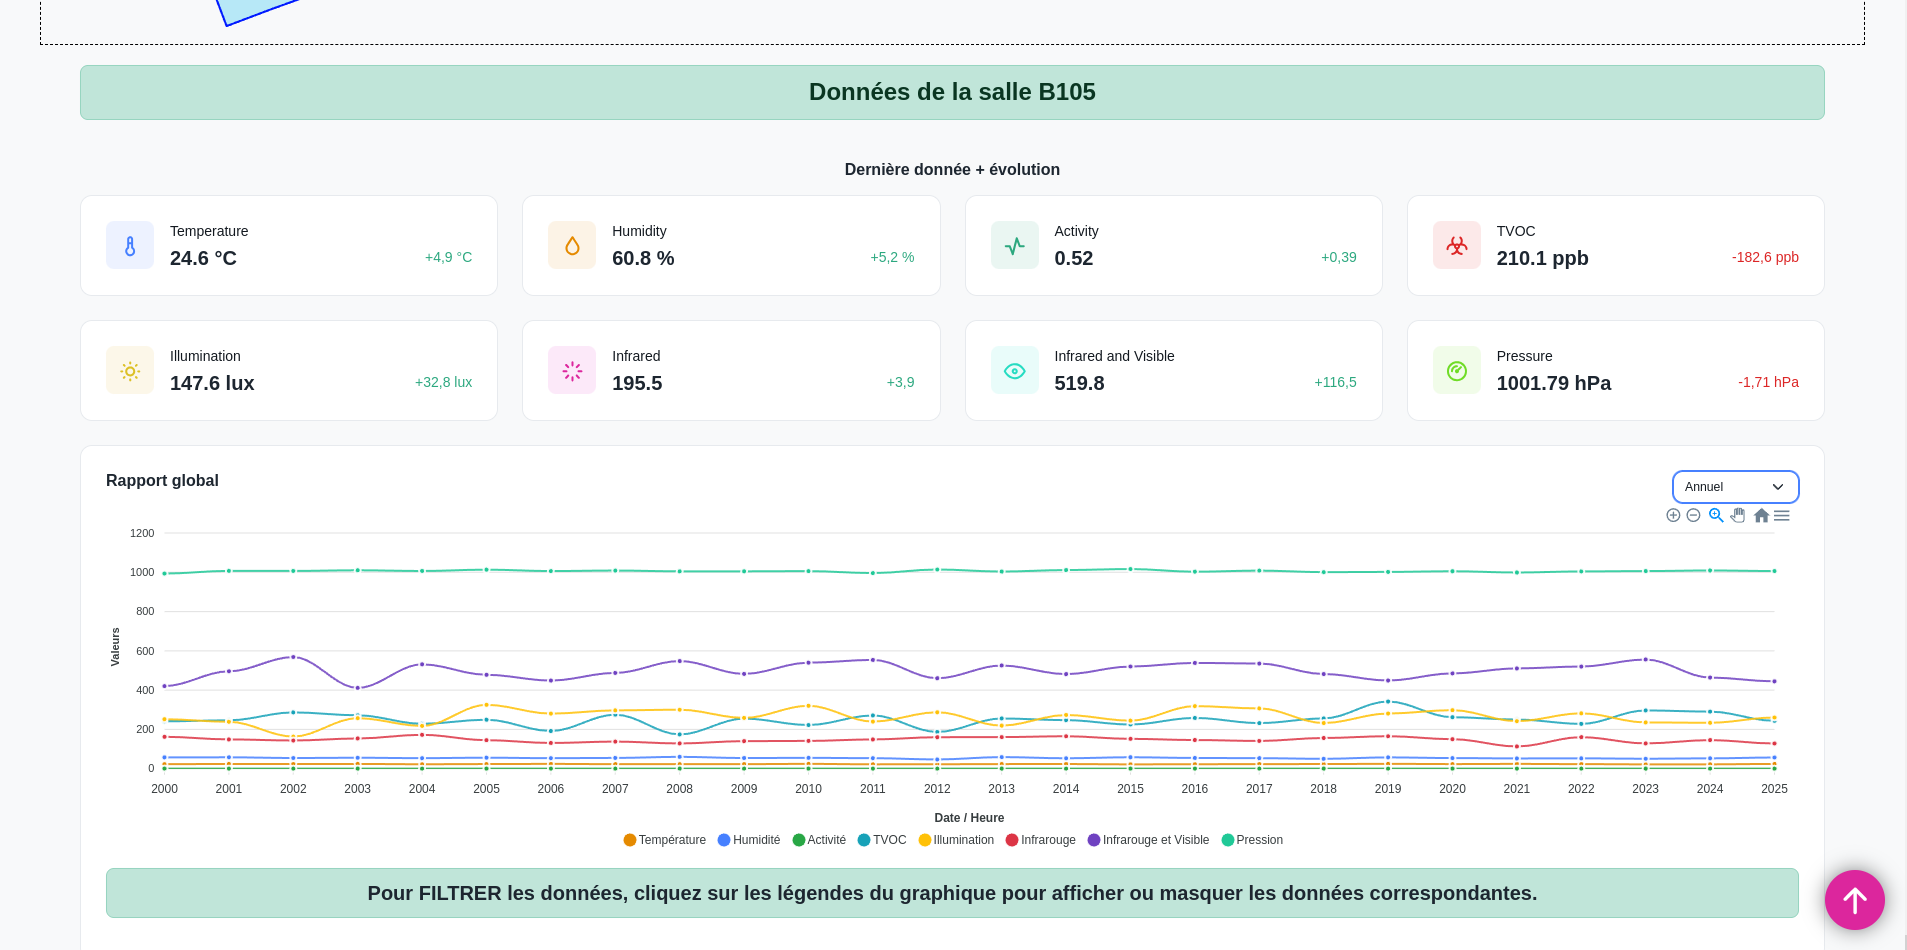
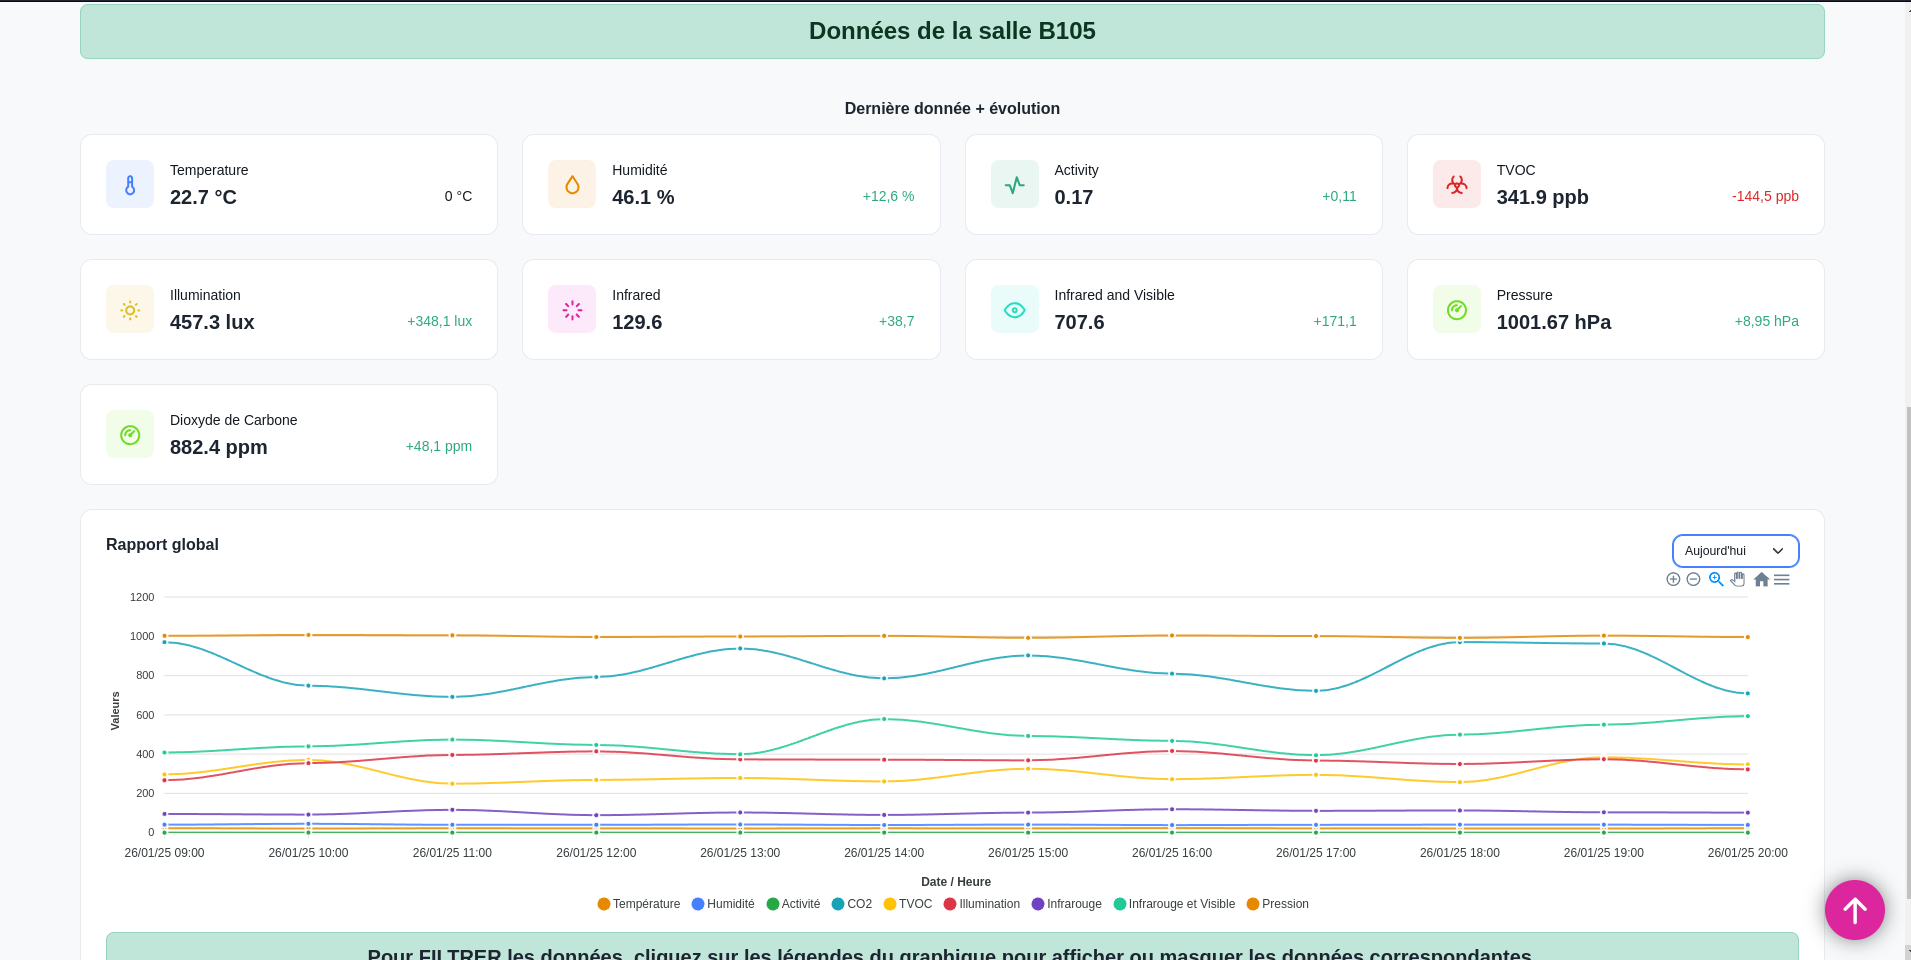
🐛 correction bug + modification en fonction des retours de RB

diff --git a/Docker/WEB/assets/js/widgets/graphic.js b/Docker/WEB/assets/js/widgets/graphic.js
@@ -6,6 +6,7 @@ document.addEventListener('DOMContentLoaded', function () {
         temperature: temperatureData,
         humidity: humidityData,
         activity: activityData,
+        dioxidecarbon: dioxidecarbonData,
         tvoc: tvocData,
         illumination: illuminationData,
         infrared: infraredData,
@@ -39,6 +40,7 @@ document.addEventListener('DOMContentLoaded', function () {
             temperature: {},
             humidity: {},
             activity: {},
+            dioxidecarbon: {},
             tvoc: {},
             illumination: {},
             infrared: {},
@@ -76,6 +78,7 @@ document.addEventListener('DOMContentLoaded', function () {
                 groupedData.temperature[key] = [];
                 groupedData.humidity[key] = [];
                 groupedData.activity[key] = [];
+                groupedData.dioxidecarbon[key] = [];
                 groupedData.tvoc[key] = [];
                 groupedData.illumination[key] = [];
                 groupedData.infrared[key] = [];
@@ -87,6 +90,7 @@ document.addEventListener('DOMContentLoaded', function () {
             groupedData.temperature[key].push(filteredData.temperature[idx]);
             groupedData.humidity[key].push(filteredData.humidity[idx]);
             groupedData.activity[key].push(filteredData.activity[idx]);
+            groupedData.dioxidecarbon[key].push(filteredData.dioxidecarbon[idx]);
             groupedData.tvoc[key].push(filteredData.tvoc[idx]);
             groupedData.illumination[key].push(filteredData.illumination[idx]);
             groupedData.infrared[key].push(filteredData.infrared[idx]);
@@ -104,6 +108,7 @@ document.addEventListener('DOMContentLoaded', function () {
             temperature: [],
             humidity: [],
             activity: [],
+            dioxidecarbon: [],
             tvoc: [],
             illumination: [],
             infrared: [],
@@ -135,6 +140,7 @@ document.addEventListener('DOMContentLoaded', function () {
             averagedData.temperature.push(calculateAverage(groupedData.temperature[key]));
             averagedData.humidity.push(calculateAverage(groupedData.humidity[key]));
             averagedData.activity.push(calculateAverage(groupedData.activity[key]));
+            averagedData.dioxidecarbon.push(calculateAverage(groupedData.dioxidecarbon[key]));
             averagedData.tvoc.push(calculateAverage(groupedData.tvoc[key]));
             averagedData.illumination.push(calculateAverage(groupedData.illumination[key]));
             averagedData.infrared.push(calculateAverage(groupedData.infrared[key]));
@@ -190,6 +196,7 @@ document.addEventListener('DOMContentLoaded', function () {
             temperature: indices.map((i) => allData.temperature[i]),
             humidity: indices.map((i) => allData.humidity[i]),
             activity: indices.map((i) => allData.activity[i]),
+            dioxidecarbon: indices.map((i) => allData.dioxidecarbon[i]),
             tvoc: indices.map((i) => allData.tvoc[i]),
             illumination: indices.map((i) => allData.illumination[i]),
             infrared: indices.map((i) => allData.infrared[i]),
@@ -264,6 +271,7 @@ document.addEventListener('DOMContentLoaded', function () {
                 { name: 'Température', data: filteredData.temperature },
                 { name: 'Humidité', data: filteredData.humidity },
                 { name: 'Activité', data: filteredData.activity },
+                { name: 'CO2', data: filteredData.dioxidecarbon },
                 { name: 'TVOC', data: filteredData.tvoc },
                 { name: 'Illumination', data: filteredData.illumination },
                 { name: 'Infrarouge', data: filteredData.infrared },

diff --git a/Docker/BD/gen_sql.py b/Docker/BD/gen_sql.py
@@ -7,33 +7,47 @@ import os
 
 def generate_inserts(output_file):
     # Définition de l'intervalle de dates
-    start_date = datetime.datetime(2000, 1, 1)
-    end_date = datetime.datetime(2025, 6, 1) 
+    end_date = datetime.datetime.now()
+    start_date = end_date - datetime.timedelta(days=6 * 30)  # Approximation des 6 derniers mois
     
     current_date = start_date
     inserts = []
 
     while current_date < end_date:
-        # Génération des valeurs aléatoires
-        temperature = round(18.0 + random.random() * 10.0, 1)
-        humidity = round(40.0 + random.random() * 30.0, 1)
-        activity = round(random.random() * 1.0, 2)
-        tvoc = round(50.0 + random.random() * 400.0, 1)
-        illumination = round(10.0 + random.random() * 500.0, 1)
-        infrared = round(50.0 + random.random() * 200.0, 1)
-        infrared_and_visible = round(300.0 + random.random() * 400.0, 1)
-        presure = round(980.0 + random.random() * 50.0, 2)
-        deviceName = "Device_A"
-        room = "B105"
-        
-        # Formatage de la date pour SQL
-        date_heure_str = current_date.strftime("%Y-%m-%d %H:%M:%S")
-        
-        # Construction de la requête INSERT
-        insert_query = f"""INSERT INTO Mesures (
+        # Vérifier si on est dans la dernière semaine
+        if current_date >= end_date - datetime.timedelta(days=7):
+            interval = datetime.timedelta(minutes=10)  # Intervalle de 10 minutes
+        else:
+            interval = datetime.timedelta(hours=5)  # Intervalle de 5 heures
+
+        # Vérifier les jours et horaires
+        if (
+            current_date.weekday() not in [4, 5]  # Pas de vendredi (4) ni samedi (5)
+            and (current_date.weekday() != 3 or current_date.hour < 12)  # Pas le jeudi après-midi
+            and 8 <= current_date.hour < 20  # Horaires entre 8h et 20h
+        ):
+            # Génération des valeurs réalistes
+            temperature = round(random.uniform(20.0, 24.0), 1)  # Température typique en intérieur
+            humidity = round(random.uniform(30.0, 50.0), 1)  # Humidité typique en salle
+            activity = round(random.uniform(0.0, 0.9), 2) if random.random() > 0.1 else None  # Activité faible
+            dioxideCarbon = round(random.uniform(400, 1200), 1)  # CO2, plus élevé en classe
+            tvoc = round(random.uniform(100, 500), 1)  # Composés organiques volatils
+            illumination = round(random.uniform(100, 700), 1)  # Éclairage de la salle
+            infrared = round(random.uniform(50, 150), 1)  # Infrarouge (occupants)
+            infrared_and_visible = round(random.uniform(200, 800), 1)  # Infrarouge et visible
+            presure = round(random.uniform(980.0, 1020.0), 2)  # Pression atmosphérique normale
+            deviceName = "AM107-17"
+            room = "B105"
+            
+            # Formatage de la date pour SQL
+            date_heure_str = current_date.strftime("%Y-%m-%d %H:%M:%S")
+            
+            # Construction de la requête INSERT
+            insert_query = f"""INSERT INTO Mesures (
     temperature,
     humidity,
     activity,
+    dioxideCarbon,
     tvoc,
     illumination,
     infrared,
@@ -45,7 +59,8 @@ def generate_inserts(output_file):
 ) VALUES (
     {temperature},
     {humidity},
-    {activity},
+    {activity if activity is not None else 'NULL'},  -- Permet de gérer NULL pour l'activité
+    {dioxideCarbon},
     {tvoc},
     {illumination},
     {infrared},
@@ -55,14 +70,10 @@ def generate_inserts(output_file):
     '{room}',
     '{date_heure_str}'
 );"""
+            inserts.append(insert_query)
 
-        inserts.append(insert_query)
-        
-        # Passage au mois suivant
-        next_month = current_date.month + 1
-        year_increment = 1 if next_month > 12 else 0
-        next_month = next_month if next_month <= 12 else 1
-        current_date = current_date.replace(year=current_date.year + year_increment, month=next_month)
+        # Avancer dans le temps selon l'intervalle
+        current_date += interval
 
     # Écriture dans le fichier de sortie
     with open(output_file, "w", encoding="utf-8") as f:

diff --git a/Docker/WEB/room.php b/Docker/WEB/room.php
@@ -33,6 +33,7 @@ try {
     $temperatureData = [];
     $humidityData = [];
     $activityData = [];
+    $dioxidecarbonData = [];
     $tvocData = [];
     $illuminationData = [];
     $infraredData = [];
@@ -44,6 +45,7 @@ try {
         $temperatureData[] = (float)$row['temperature'];
         $humidityData[] = (float)$row['humidity'];
         $activityData[] = (float)$row['activity'];
+        $dioxidecarbonData[] = (float)$row['dioxidecarbon'];
         $tvocData[] = (float)$row['tvoc'];
         $illuminationData[] = (float)$row['illumination'];
         $infraredData[] = (float)$row['infrared'];
@@ -55,6 +57,7 @@ try {
     $temperatureJson = json_encode($temperatureData);
     $humidityJson = json_encode($humidityData);
     $activityJson = json_encode($activityData);
+    $dioxidecarbonJson = json_encode($dioxidecarbonData);
     $tvocJson = json_encode($tvocData);
     $illuminationJson = json_encode($illuminationData);
     $infraredJson = json_encode($infraredData);
@@ -130,7 +133,7 @@ try {
                             <div class="flex-shrink-0">
                                 <div class="avtar bg-light-warning"><i class="ti ti-droplet f-24"></i></div>
                             </div>
-                            <div class="flex-grow-1 ms-3"><p class="mb-1">Humidity</p>
+                            <div class="flex-grow-1 ms-3"><p class="mb-1">Humidité</p>
                                 <div class="d-flex align-items-center justify-content-between">
                                     <h4 class="mb-0"><?= $badgeRows[0]['humidity'] ?> %</h4>
                                     <?= (badgeEvolution($badgeRows[0]['humidity'], $badgeRows[1]['humidity'], " %")); ?>
@@ -242,6 +245,23 @@ try {
                     </div>
                 </div>
             </div>
+            <div class="col-lg-3 col-md-6">
+                <div class="card">
+                    <div class="card-body">
+                        <div class="d-flex align-items-center">
+                            <div class="flex-shrink-0">
+                                <div class="avtar bg-light-green"><i class="ti ti-gauge f-24"></i></div>
+                            </div>
+                            <div class="flex-grow-1 ms-3"><p class="mb-1">Dioxyde de Carbone</p>
+                                <div class="d-flex align-items-center justify-content-between">
+                                    <h4 class="mb-0"><?= $badgeRows[0]['dioxidecarbon'] ?> ppm</h4>
+                                    <?= (badgeEvolution($badgeRows[0]['dioxidecarbon'], $badgeRows[1]['dioxidecarbon'], " ppm")); ?>
+                                </div>
+                            </div>
+                        </div>
+                    </div>
+                </div>
+            </div>
             <!--<div class="col-lg-7 col-md-12">-->
             <div class="col-12">
                 <div class="card">
@@ -280,6 +300,7 @@ try {
     const temperatureData = <?= $temperatureJson; ?>;
     const humidityData = <?= $humidityJson; ?>;
     const activityData = <?= $activityJson; ?>;
+    const dioxidecarbonData = <?= $dioxidecarbonJson; ?>;
     const tvocData = <?= $tvocJson; ?>;
     const illuminationData = <?= $illuminationJson; ?>;
     const infraredData = <?= $infraredJson; ?>;

diff --git a/Docker/WEB/old_index.php b/Docker/WEB/old_index.php
@@ -22,6 +22,7 @@ try {
             <th>Temperature</th>
             <th>Humidity</th>
             <th>Activity</th>
+            <th>co2</th>
             <th>TVOC</th>
             <th>Illumination</th>
             <th>Infrared</th>
@@ -39,6 +40,7 @@ try {
         echo "<td>" . htmlspecialchars($row['temperature']) . "</td>";
         echo "<td>" . htmlspecialchars($row['humidity']) . "</td>";
         echo "<td>" . htmlspecialchars($row['activity']) . "</td>";
+        echo "<td>" . htmlspecialchars($row['dioxidecarbon']) . "</td>";
         echo "<td>" . htmlspecialchars($row['tvoc']) . "</td>";
         echo "<td>" . htmlspecialchars($row['illumination']) . "</td>";
         echo "<td>" . htmlspecialchars($row['infrared']) . "</td>";

diff --git a/Docker/BD/dictionnaire_de_donnee.md b/Docker/BD/dictionnaire_de_donnee.md
@@ -8,6 +8,7 @@ La table `Mesures` stocke les données mesurées par les capteurs. Voici les dé
 | `temperature`               | `FLOAT`           | Température mesurée par le capteur.                |                      |
 | `humidity`                  | `FLOAT`           | Taux d'humidité mesuré par le capteur.             |                      |
 | `activity`                  | `FLOAT`           | Niveau d'activité mesuré par le capteur.           |                      |
+| `dioxydeCarbone`            | `FLOAT`           | Niveau de dioxyde de carbone mesuré.               |                      |
 | `tvoc`                      | `FLOAT`           | Niveau des composés organiques volatils (TVOC).    |                      |
 | `illumination`              | `FLOAT`           | Niveau d'éclairage mesuré.                         |                      |
 | `infrared`                  | `FLOAT`           | Valeur infrarouge mesurée.                         |                      |
